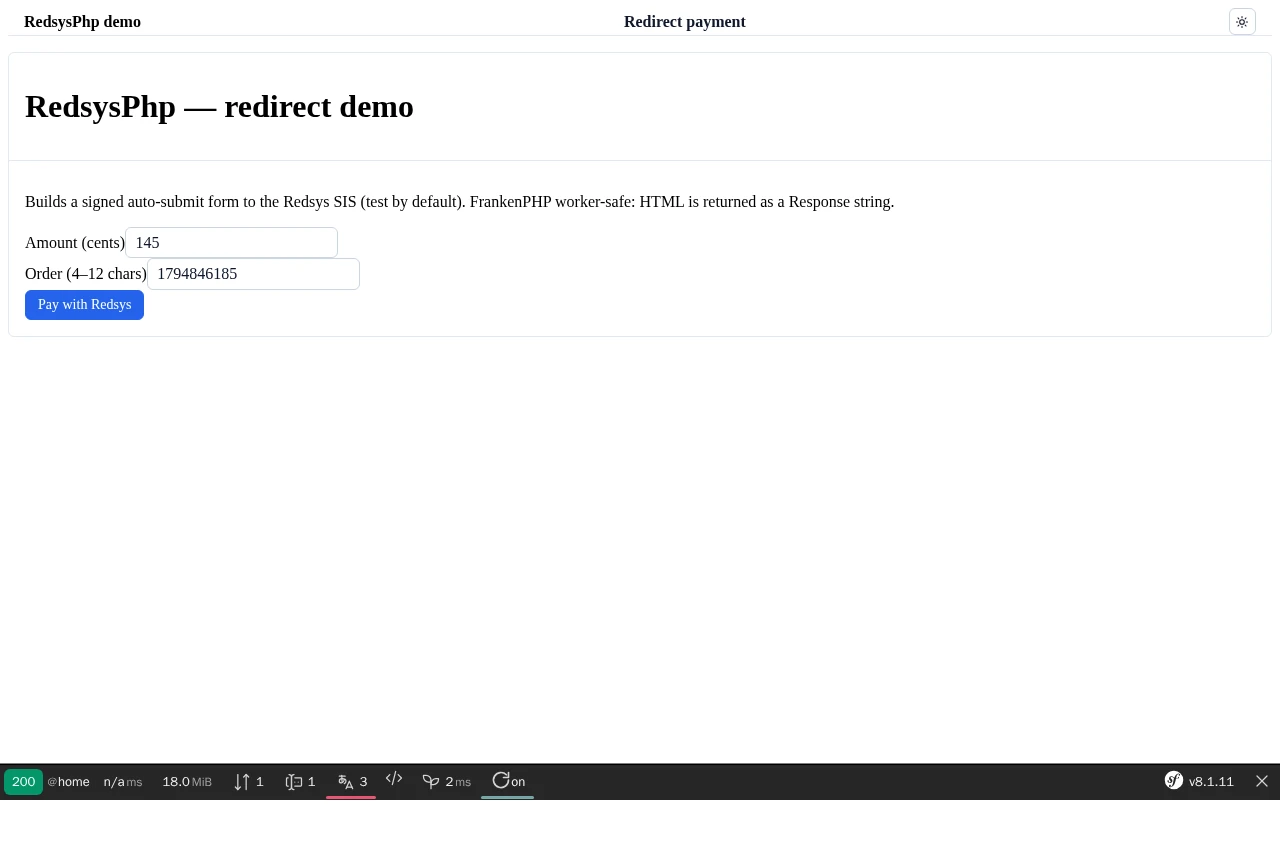
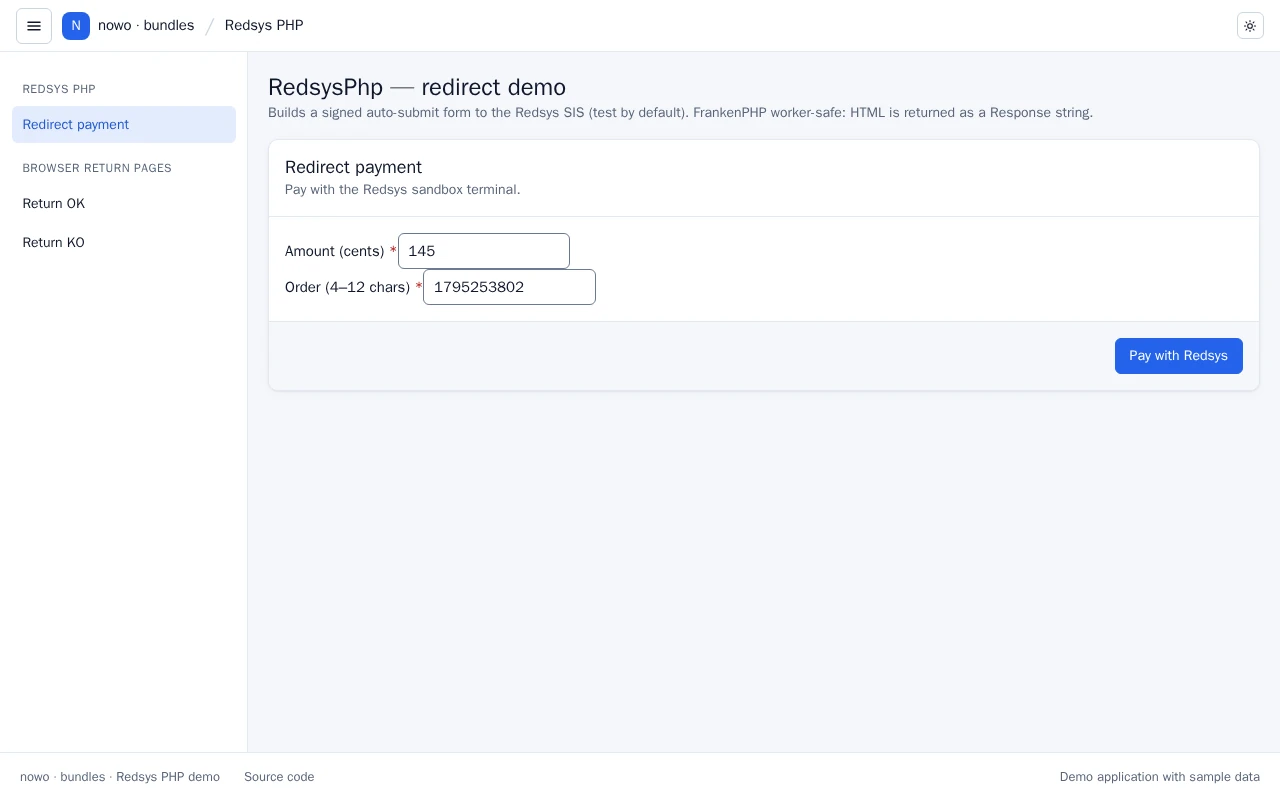
chore(demo): run the demo in UiKit's demo platform shell

diff --git a/demo/symfony8/e2e/tests/demo-platform.spec.ts b/demo/symfony8/e2e/tests/demo-platform.spec.ts
@@ -1,0 +1,184 @@
+import { test, expect, type Page } from '@playwright/test';
+import AxeBuilder from '@axe-core/playwright';
+
+/**
+ * UiKit demo platform shell (REQ-DEMO-014): layout grammar, demo styles, host theme tokens, framework classes, the
+ * closed phone drawer, 44 px touch targets and input borders on every demo page, plus axe (wcag2a / 2aa / 21a / 21aa,
+ * serious + critical = 0) in light and dark, desktop and phone, and the keyboard drawer pass.
+ */
+type Theme = 'light' | 'dark';
+type PageEntry = string | ((page: Page) => Promise<string>);
+
+async function prepare(_page: Page): Promise<void> {}
+
+async function setTheme(page: Page, theme: Theme): Promise<void> {
+  await page.evaluate((t) => {
+    document.documentElement.setAttribute('data-theme', t);
+    document.documentElement.setAttribute('data-bs-theme', t);
+  }, theme);
+}
+
+async function axe(page: Page): Promise<string[]> {
+  const result = await new AxeBuilder({ page }).withTags(['wcag2a', 'wcag2aa', 'wcag21a', 'wcag21aa']).exclude('.sf-toolbar').analyze();
+  return result.violations
+    .filter((v) => v.impact === 'serious' || v.impact === 'critical')
+    .map((v) => `${v.id}: ${v.nodes.map((n) => n.target.join(' ')).join(', ')}`);
+}
+
+/** The demo layout + style rules (docs/USAGE.md "Demo platform shell"; same function as the rollout brief's spec): layout grammar,
+ * no demo styles / host tokens / framework classes, closed drawer inert, 44 px targets on coarse pointers, input borders 3:1. */
+/* eslint-disable */
+// prettier-ignore
+function demoPlatformRules(): string[] {
+  const issues = [];
+  const main = document.querySelector('#nowo-ui-content');
+  const shell = document.querySelector('[data-testid="demo-platform"]');
+  if (!main || !shell) return ['no-demo-platform-shell'];
+  const visible = (el) => !!(el.offsetWidth || el.offsetHeight || el.getClientRects().length);
+  const carded = (el) => el.closest('.nowo-ui-card, [data-nowo-ui-region="table"], [data-nowo-ui-region="form"], .nowo-ui-form-panel, dialog');
+  const skip = (el) => el.closest('dialog, [data-nowo-ui-region="filters"], .nowo-ui-filters, .nowo-ui-page-header');
+
+  // Layout grammar.
+  main.querySelectorAll('table').forEach((t) => { if (!carded(t)) issues.push('table-outside-card'); });
+  main.querySelectorAll('form').forEach((f) => {
+    if (f.querySelector('input:not([type="hidden"]), select, textarea') && !carded(f) && !skip(f) && !f.closest('table')) issues.push('form-outside-card');
+  });
+  const primaries = [...main.querySelectorAll('.nowo-ui-btn--primary')].filter((b) => visible(b) && !b.closest('table, dialog, [data-nowo-ui-region="filters"], .nowo-ui-filters, form'));
+  if (primaries.length > 1) issues.push(`primary-buttons:${primaries.length}`);
+  const header = main.querySelector('.nowo-ui-page-header');
+  const flashes = main.querySelector('.nowo-ui-flashes');
+  if (header && flashes && (flashes.compareDocumentPosition(header) & Node.DOCUMENT_POSITION_FOLLOWING)) issues.push('flashes-before-page-header');
+  if (document.documentElement.scrollWidth > document.documentElement.clientWidth + 1) issues.push('page-scrolls-horizontally');
+
+  // Styles: no demo styles, no host theme tokens, no CDN / foreign stylesheet, no framework classes inside the shell.
+  document.querySelectorAll('style').forEach((s) => {
+    if (s.matches('[data-nowo-ui-theme-tokens], [data-nowo-ui-appearance]')) { issues.push('host-theme-tokens'); return; }
+    if (!/sf-toolbar|sfwdt|sf-minitoolbar|sf-display/.test(s.textContent || '') && !s.closest('[id^="sfwdt"], .sf-toolbar')) issues.push('style-element');
+  });
+  document.querySelectorAll('link[rel="stylesheet"]').forEach((l) => {
+    const path = new URL(l.href, location.href).pathname;
+    if (!path.startsWith('/bundles/') && !path.startsWith('/_wdt/') && !path.startsWith('/_profiler/')) issues.push(`stylesheet:${path}`);
+  });
+  const framework = /^(acme-.*|nav-tabs|nav-link|nav-item|alert|alert-.*|form-check.*|form-control|form-select|form-label|btn|btn-.*|card|card-.*|badge|row|col|col-.*|table|table-.*)$/;
+  shell.querySelectorAll('[class]').forEach((el) => {
+    for (const c of el.classList) { if (framework.test(c)) { issues.push(`framework-class:${c}`); break; } }
+  });
+
+  // Drawer: below 901 px a closed drawer is inert and the burger says so.
+  const aside = shell.querySelector('[data-nowo-ui-aside]');
+  if (aside && window.innerWidth < 901) {
+    const open = shell.classList.contains('is-aside-open-mobile');
+    if (!open && !aside.hasAttribute('inert')) issues.push('drawer-not-inert');
+    shell.querySelectorAll('[data-nowo-ui-burger]').forEach((b) => {
+      if (visible(b) && b.getAttribute('aria-expanded') !== (open ? 'true' : 'false')) issues.push('burger-state');
+    });
+  }
+
+  // Touch: 44 px targets on coarse pointers (checkbox / radio 24 px, their label carries the 44 px row).
+  if (window.matchMedia('(pointer: coarse)').matches) {
+    const controls = [...shell.querySelectorAll('.nowo-ui-btn, button, summary, input:not([type="hidden"]), select, textarea, [role="tab"], .nowo-ui-aside__link, .nowo-ui-demo-platform__locale')]
+      .filter((el) => visible(el) && !el.closest('[inert], table, .ts-control'));
+    for (const el of controls) {
+      const r = el.getBoundingClientRect();
+      const small = el.matches('input[type="checkbox"], input[type="radio"]') ? r.height < 24 || r.width < 24 : r.height < 43.5;
+      if (small) { issues.push(`target-under-44px:${(el.className && String(el.className).split(' ')[0]) || el.tagName.toLowerCase()}`); }
+    }
+  }
+
+  // Inputs: boundary 3:1 or more against the surface behind them (WCAG 1.4.11).
+  const rgb = (c) => { const m = c.match(/[\d.]+/g); return m ? m.slice(0, 4).map(Number) : null; };
+  const lum = (c) => { const v = c.slice(0, 3).map((x) => { const s = x / 255; return s <= 0.03928 ? s / 12.92 : ((s + 0.055) / 1.055) ** 2.4; }); return 0.2126 * v[0] + 0.7152 * v[1] + 0.0722 * v[2]; };
+  const bgOf = (el) => { for (let n = el.parentElement; n; n = n.parentElement) { const c = rgb(getComputedStyle(n).backgroundColor); if (c && (c.length < 4 || c[3] > 0)) return c; } return [255, 255, 255]; };
+  shell.querySelectorAll('input:not([type="hidden"], [type="checkbox"], [type="radio"]), select, textarea').forEach((el) => {
+    if (!visible(el) || el.closest('[inert]')) return;
+    const border = rgb(getComputedStyle(el).borderTopColor);
+    if (!border) return;
+    const a = lum(border); const b = lum(bgOf(el));
+    if ((Math.max(a, b) + 0.05) / (Math.min(a, b) + 0.05) < 3) issues.push(`input-border-under-3:1:${el.id || el.name || el.tagName.toLowerCase()}`);
+  });
+
+  return [...new Set(issues)];
+}
+
+
+const PAGES: PageEntry[] = ['/', '/ok', '/ko'];
+
+const BUNDLE_OWNED: Array<{ path: RegExp; rule: RegExp }> = [];
+
+/** Findings on a bundle's own page are reported as bundle-owned (not patched in the demo): they are filtered here, by path and rule. */
+function demo(url: string, issues: string[]): string[] {
+  const path = new URL(url).pathname;
+  return issues.filter((issue) => !BUNDLE_OWNED.some((o) => o.path.test(path) && o.rule.test(issue)));
+}
+
+async function resolvePath(page: Page, entry: PageEntry): Promise<string> {
+  return typeof entry === 'function' ? entry(page) : entry;
+}
+
+test.describe('demo platform rules', () => {
+  // Device-emulating projects (phone / iphone ...) set their own context: the viewport blocks below do it explicitly.
+  test.beforeEach(async ({ page }, testInfo) => {
+    test.skip(/phone/i.test(testInfo.project.name), 'viewport blocks set their own context');
+    // The Symfony toolbar is dev chrome, never part of the rules or axe runs.
+    await page.addInitScript(() => {
+      document.addEventListener('DOMContentLoaded', () => {
+        const s = document.createElement('style');
+        s.textContent = '.sf-toolbar,.sf-minitoolbar,[id^="sfwdt"]{display:none!important}';
+        document.head.appendChild(s);
+      });
+    });
+  });
+
+  test('desktop 1440 px', async ({ page }) => {
+    await page.setViewportSize({ width: 1440, height: 900 });
+    await prepare(page);
+    for (const path of PAGES) {
+      await page.goto(await resolvePath(page, path));
+      expect(demo(page.url(), await page.evaluate(demoPlatformRules)), page.url()).toEqual([]);
+    }
+  });
+
+  test.describe('phone 390 px, touch', () => {
+    test.use({ viewport: { width: 390, height: 844 }, isMobile: true, hasTouch: true });
+
+    test('rules on every page', async ({ page }) => {
+      await prepare(page);
+      for (const path of PAGES) {
+        await page.goto(await resolvePath(page, path));
+        expect(demo(page.url(), await page.evaluate(demoPlatformRules)), page.url()).toEqual([]);
+      }
+    });
+
+    test('keyboard drawer pass', async ({ page }) => {
+      await prepare(page);
+      await page.goto(await resolvePath(page, PAGES[0]));
+      const aside = page.locator('[data-nowo-ui-aside]');
+      await expect(aside).toHaveAttribute('inert', '');
+      const burger = page.locator('[data-nowo-ui-burger]').first();
+      await expect(burger).toHaveAttribute('aria-expanded', 'false');
+      await burger.focus();
+      await page.keyboard.press('Enter');
+      await expect(page.getByTestId('demo-platform')).toHaveClass(/is-aside-open-mobile/);
+      await expect(page.locator('[data-nowo-ui-aside] :focus')).toHaveCount(1);
+      await expect(page.locator('.nowo-ui-main')).toHaveAttribute('inert', '');
+      await expect(page.locator('html')).toHaveClass(/nowo-ui-drawer-open/);
+      await page.keyboard.press('Escape');
+      await expect(burger).toBeFocused();
+      await expect(aside).toHaveAttribute('inert', '');
+    });
+  });
+
+  for (const theme of ['light', 'dark'] as Theme[]) {
+    for (const [name, width] of [['desktop', 1440], ['phone', 390]] as const) {
+      test(`axe clean: ${name}, ${theme}`, async ({ page }) => {
+        await page.setViewportSize({ width, height: 900 });
+        await prepare(page);
+        for (const path of PAGES) {
+          await page.goto(await resolvePath(page, path));
+          await setTheme(page, theme);
+          expect(demo(page.url(), await axe(page)), page.url()).toEqual([]);
+        }
+      });
+    }
+  }
+});

diff --git a/demo/symfony8/e2e/tests/screenshots.spec.ts b/demo/symfony8/e2e/tests/screenshots.spec.ts
@@ -1,7 +1,6 @@
 import { test, expect } from '@playwright/test';
 import { mkdirSync } from 'node:fs';
 import { resolve } from 'node:path';
-import { waitForWebProfiler } from './helpers';
 
 /** REQ-DEMO-013 — README screenshots (captured as PNG, converted to WebP by scripts/to-webp.mjs). */
 const outDir = process.env.SCREENSHOT_DIR
@@ -18,14 +17,14 @@ test.describe('RedsysPhp screenshots', () => {
   test('payment-form — redirect payment form', async ({ page }) => {
     await page.goto('/');
     await expect(page.getByTestId('demo-pay')).toBeVisible();
-    await waitForWebProfiler(page);
+    await page.addStyleTag({ content: '.sf-toolbar,.sf-minitoolbar,[id^="sfwdt"]{display:none!important}' });
     await page.screenshot({ path: resolve(outDir, 'payment-form.png'), fullPage: true });
   });
 
   test('payment-return — browser return page', async ({ page }) => {
     await page.goto('/ok');
     await expect(page.getByTestId('demo-result')).toBeVisible();
-    await waitForWebProfiler(page);
+    await page.addStyleTag({ content: '.sf-toolbar,.sf-minitoolbar,[id^="sfwdt"]{display:none!important}' });
     await page.screenshot({ path: resolve(outDir, 'payment-return.png'), fullPage: true });
   });
 });

diff --git a/demo/symfony8/e2e/tests/demo.spec.ts b/demo/symfony8/e2e/tests/demo.spec.ts
@@ -2,9 +2,9 @@ import { test, expect } from '@playwright/test';
 
 /** REQ-DEMO-013 — happy path of the Redsys redirect demo (UiKit shell + FormKit payment form). */
 test.describe('RedsysPhp demo', () => {
-  test('home renders the UiKit shell and the FormKit payment form', async ({ page }) => {
+  test('home renders the demo platform shell and the FormKit payment form', async ({ page }) => {
     await page.goto('/');
-    await expect(page.getByTestId('demo-masthead')).toContainText('RedsysPhp demo');
+    await expect(page.getByTestId('demo-platform')).toContainText('Redsys PHP');
     await expect(page.getByLabel('Amount (cents)')).toHaveValue('145');
     await expect(page.getByTestId('demo-pay')).toBeVisible();
   });

diff --git a/docs/CHANGELOG.md b/docs/CHANGELOG.md
@@ -28,6 +28,10 @@ and this project adheres to [Semantic Versioning](https://semver.org/spec/v2.0.0
 
 ## [Unreleased]
 
+### Changed
+
+- Demo: runs in UiKit's demo platform shell (`nowo-tech/ui-kit-bundle` ^2.60); the demo's own header is gone and the pages use the shell page headers and section cards. Demo only, no bundle change.
+
 ### Demo
 
 - The demo is built on UiKit and FormKit (REQ-DEMO-014 / REQ-DEMO-015): the hand-written inline-style shell is replaced by UiKit's admin layout with its default theme, and `PaymentFormType` is a FormKit type on the `demo` profile with UiKit's form theme. Playwright e2e (`make test-e2e` in `demo/symfony8`) and WebP screenshots (`make demo-screenshots`) added (REQ-DEMO-013). No library change.
